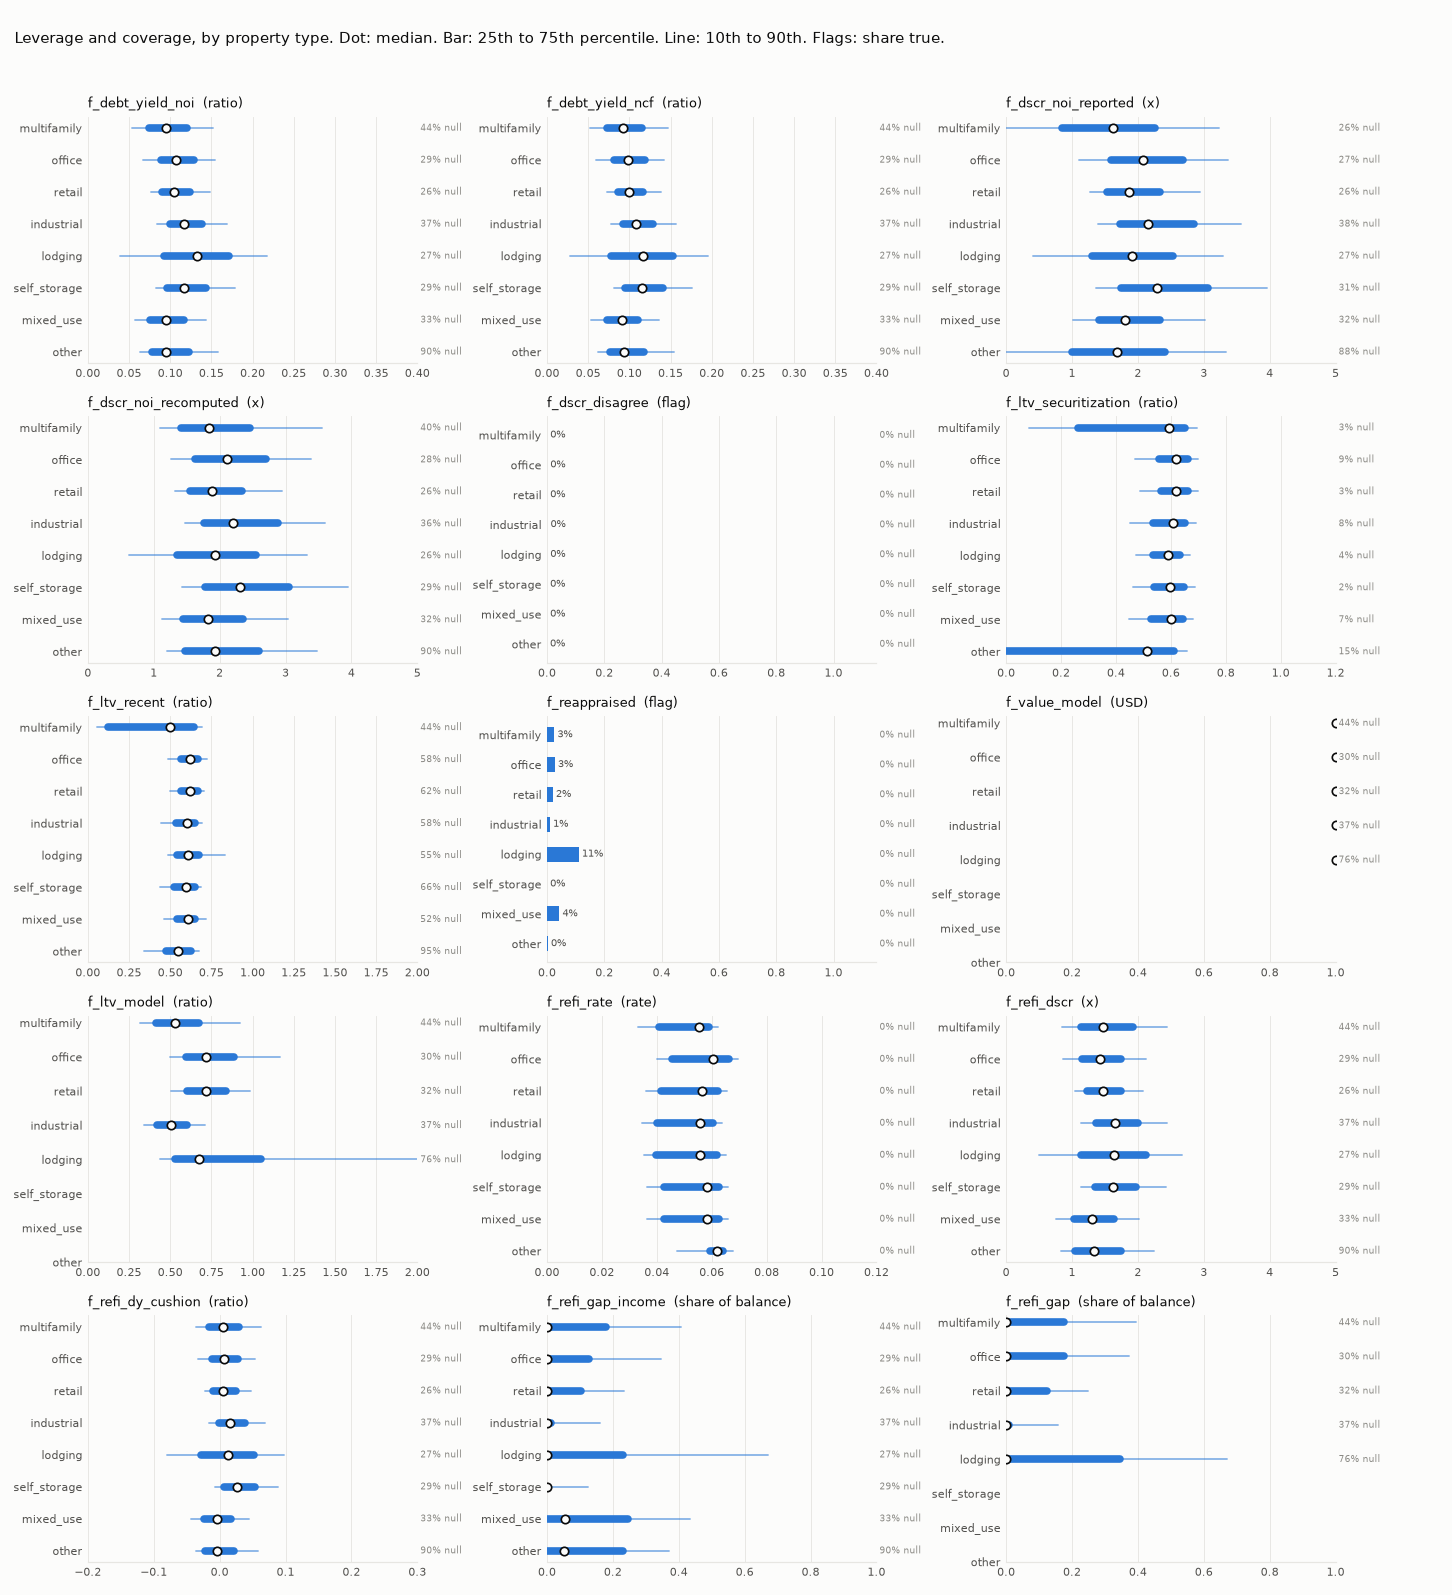
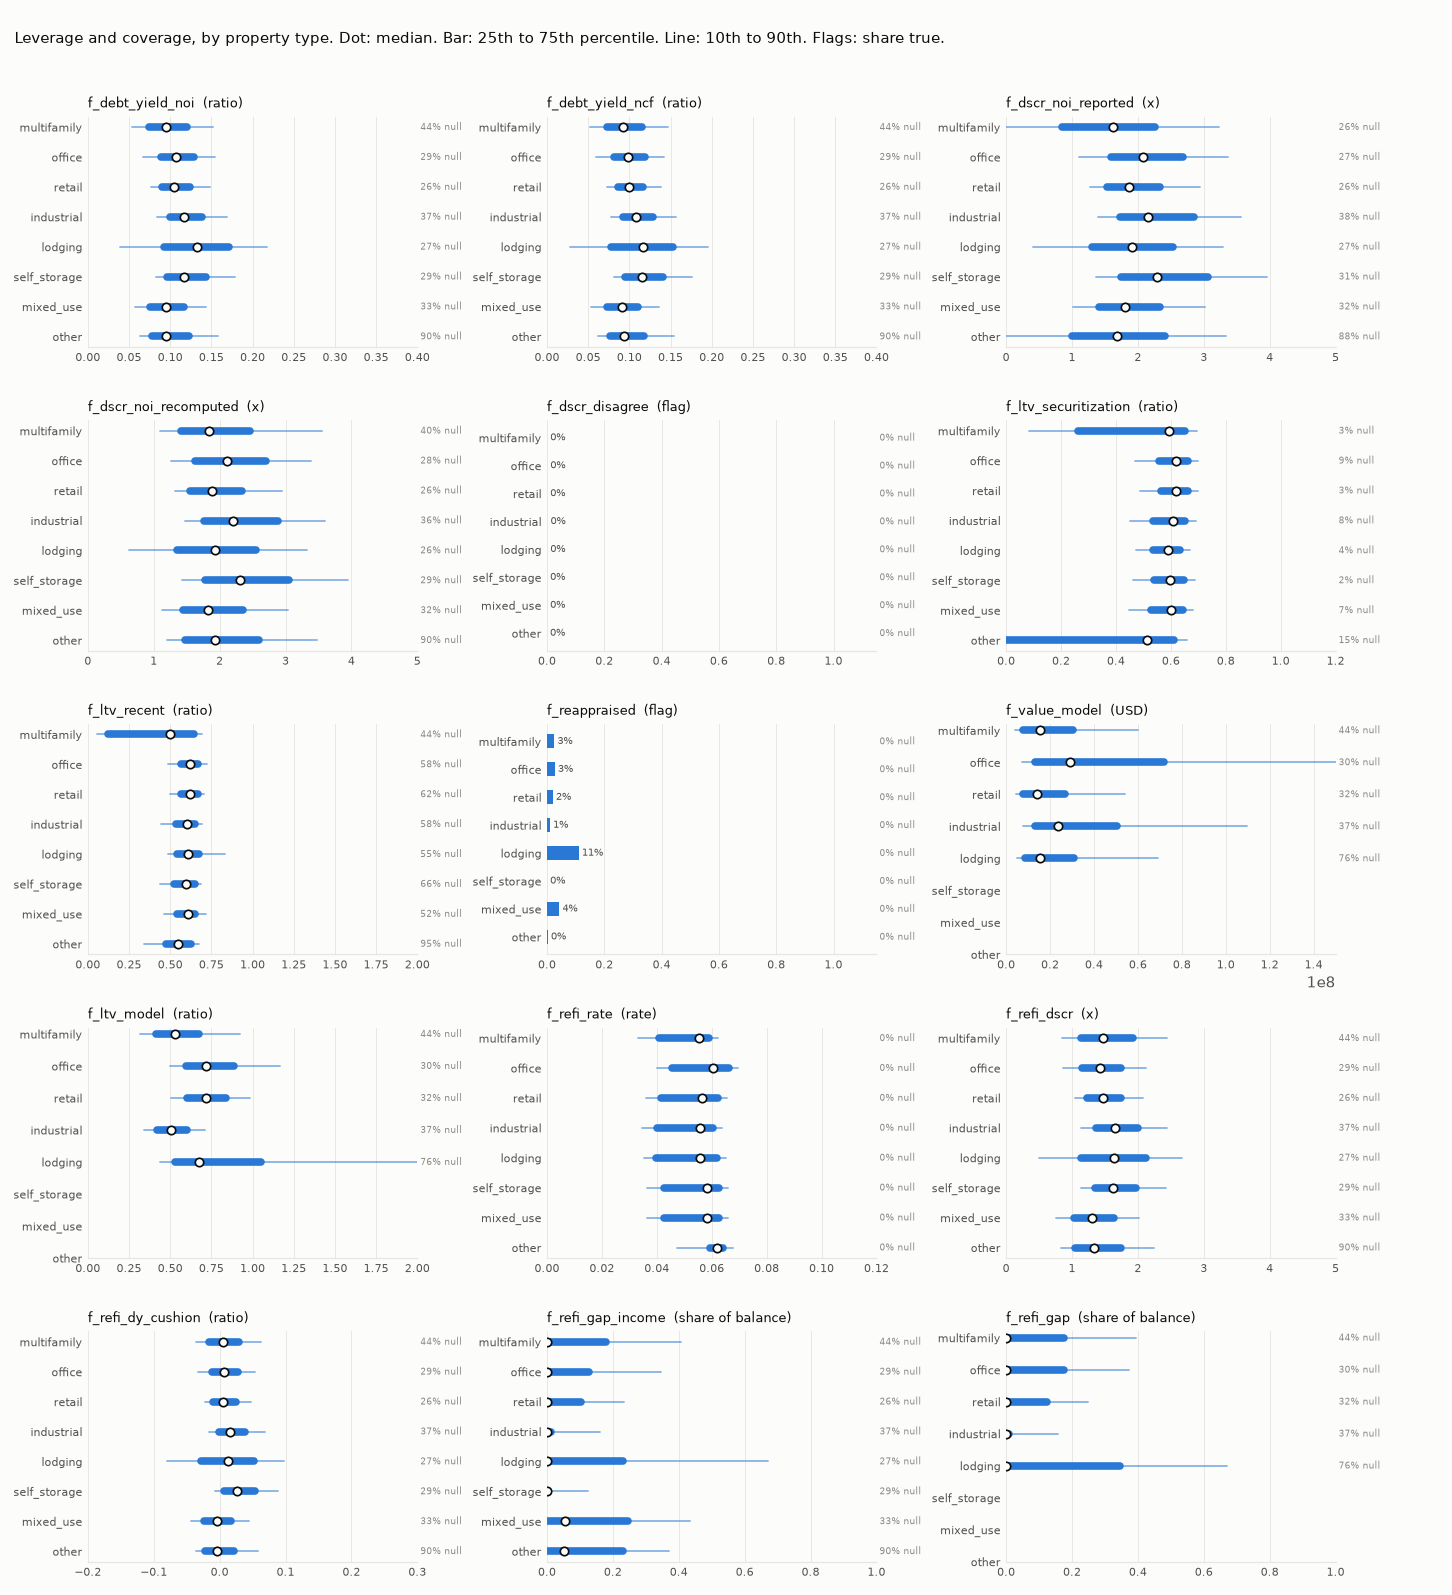
Gate 2 passes: sign-off with published limitations
Features: 64 plus 5 keys, each with a dictionary row, a hand-built unit test and a plot by
property type. Leakage audit passes, including a canary that proves the truncation replay can
catch a leak. Labels: tier 2 2.7% of 676,532 complete-window months; tier 1 gold set 1,631
whole loans, 357 failed; tier 3 220 liquidations. Hand check 20 of 20 after the D045 redraw.

diff --git a/src/mwall/features/catalog.py b/src/mwall/features/catalog.py
@@ -49,7 +49,7 @@ CATALOG: list[Feature] = [
             "or before T", "flag", ("mostRecentValuationDate", "valuationSecuritizationDate"), kind="bool"),
     Feature("f_value_model", LEV, "Annualized NOI / benchmark cap rate for the property type at T", "USD",
             ("fin_noi_annual", "cap_rate_benchmark"), lag="cap rate survey from its publication date",
-            tags=("needs_cap_rates",), clip=None),
+            tags=("needs_cap_rates",), clip=(0, 150_000_000)),
     Feature("f_ltv_model", LEV, "Whole-loan balance / f_value_model (tests H4)", "ratio",
             ("wl_balance_est", "fin_noi_annual", "cap_rate_benchmark"), lag="cap rate survey from its "
             "publication date", tags=("needs_cap_rates",), clip=(0, 2)),

diff --git a/docs/qa/gate2_signoff.md b/docs/qa/gate2_signoff.md
@@ -1,0 +1,40 @@
+# Gate 2 sign-off: features and labels
+
+Signed off 2026-11-13. Every checklist item below is decided by a committed artifact. The numbers come from the full panel built on the Gate 1 data (`python -m mwall panel`, `python -m mwall features --audit`).
+
+## Checklist (SOP section 15)
+
+| item | result | evidence |
+| --- | --- | --- |
+| Every feature has a dictionary row, a unit test and a distribution plot by property type | PASS | 64 features plus 5 categorical keys in seven families, all generated from `src/mwall/features/catalog.py` into `docs/features.md`. `tests/test_features.py` checks every loan feature against a hand-worked example (`test_golden_row_every_loan_feature`), the market, refinance and cap-rate joins on hand-built tables, and fails if any catalog entry has no test (`test_every_catalog_feature_has_a_unit_test`). One figure per family in `docs/qa/features/`, with coverage by type in `docs/qa/gate2_features.md`. The categorical keys (type, state, metro, status) get coverage tables, not plots. |
+| A leakage audit confirms no feature uses data published after its snapshot date | PASS | `docs/qa/gate2_leakage.md`. No outcome field is an input. Every market value joined (Treasury, rents, employment, permits, lender spreads, cap rates) was published on or before the filing date, with 0 exceptions. A truncation replay recomputes the loan features with later filings removed, at four cut dates over 600 loans (64,144 row comparisons), and finds no change. A deliberately leaky canary changes in 39,170 of those comparisons, so the replay has the power to catch a leak. |
+| Label counts by tier, property type and vintage are published, including the number of tier 1 events | PASS | `docs/qa/gate2_labels.md` and `docs/qa/gate2_gold_set.md`. |
+| A hand check of 20 loans confirms labels match what the filings show | PASS | `docs/qa/gate2_hand_check.md`: 20 of 20, after two positives were redrawn under D045 (both were NCB co-op loans flagged by a modification indicator that carried no modification). |
+
+## What the labels say
+
+- **Tier 2 (12-month distress):** 676,532 labeled loan-months with the whole window inside the data, 18,067 with an event (2.7%). Lodging runs highest at 7.7%, self-storage lowest at 0.4%. Office is 3.0% and multifamily 1.8%.
+- **Tier 1 (maturity outcome):** 173 of 431 EX-102 whole loans failed to pay within 90 days of maturity (40.1%). Adding the vintage-2016 loans read from 10-D tables gives a gold set of 1,631 labeled whole loans and 357 failures (21.9%), most of them maturing in 2025 and 2026. The two sources overlap on 7 loans and agree on all 8 labeled pairs.
+- **Tier 3 (loss severity):** 220 liquidated positions, 151 with a reported loss, median severity 0.43.
+
+## Changes made during Gate 2 that move numbers
+
+- **D045:** the modification indicator alone no longer counts. One servicer set it on co-op loans with nothing behind it, and it made 44% of the first count of tier 2 positives.
+- **D045:** months whose window runs past the data are flagged. They were 45.8% positive, because only an early event can label them.
+- **D050:** a payoff after the 90-day grace window is a failure, as the definition says. That adds 9 failed EX-102 maturities.
+- **D050:** "Partial Liquidation (Curtailment)" is not a liquidation.
+- **D050:** Citibank's older layout printed loan numbers with a leading zero, which split one loan into two keys.
+
+## Limitations to publish
+
+1. **Market series are today's vintage.** Zillow, QCEW, permit and housing-unit figures are revised after release; a revision after the snapshot date is a small look-ahead. Treasury yields are not revised.
+2. **Lender limits are constants** (LTV, DSCR, debt yield, amortization, property-type spread premiums) from sources published mostly between 2022 and 2026, with the OCC handbook (2013) as the pre-2017 anchor. Only the spread itself is dated (CBRE's quarterly series). CBRE printed no level for 2016Q2 to 2018Q1 or 2018Q3 to 2020Q1, so 2017 and 2018 refinance rates use the wide 2016Q1 spread.
+3. **The cap-rate benchmark is chain-linked:** CBRE survey averages to 2019 (retail to 2022), then CoStar's monthly changes. Survey and transaction cap rates measure different things, so the level is less certain than the changes. There is no benchmark for self-storage or mixed use, and lodging lapses after 2021.
+4. **Office-using employment ends at 2025 Q2.** BLS stopped publishing metro rows by industry in Q3 2025.
+5. **There's no usable current NOI in 36% of loan-months** (44% for multifamily, where co-op loans rarely report it). That's higher than the 29% with NOI missing at Gate 1, because a partial-year figure whose year-to-date or annualized basis can't be told (D021) also counts. The model reports performance with and without current NOI, as the SOP requires.
+6. **Two of the 49 vintage-2016 trusts are unread.** COMM 2016-DC2 and CFCRE 2016-C4 publish statements as positioned page text. The 10-D loans carry fewer fields than the XML ones, so they serve as labels for calibration and testing; they get no full feature rows.
+7. **7,229 loan-months (0.66%) are late snapshots,** filed after the loan's next period. They keep their features but stay out of training.
+
+## Open for Eli before anything is published (Gate 6)
+
+The cap-rate benchmark uses CBRE survey values and CoStar figures as NAR published them, and the lender parameters quote CBRE, Greystone, Freddie Mac, the OCC and others. The SOP says to transcribe minimal values with attribution and check each source's terms. The model uses these numbers internally; whether the site may show them (for example the benchmark line on a chart) needs a terms check per source. PwC and IRR figures were found but not used: PwC only as re-hosted subscriber copies, IRR only through its registration library.

diff --git a/README.md b/README.md
@@ -4,7 +4,7 @@ Which US commercial mortgages won't refinance at today's rates, and what could a
 
 This repo answers that from the loan-level data that registered CMBS trusts file with the SEC every month (Form ABS-EE, exhibit EX-102). It ranks loans by the probability they fail at maturity, sizes the refinance gap the way a lender would, and underwrites an indicative bid for the collateral. Scores are screening aids under stated assumptions, not valuations or investment advice.
 
-**Status (November 2026): Gate 1 of 6 (data) passed on the full universe.** The ingest, parser, cleaning layer and QA are built and tested; the sign-off and the limitations it publishes are in `docs/qa/gate1_signoff.md`. Features and labels (Gate 2) come next. The plan is `docs/SOP.md`; every departure from it is in `docs/decisions.md`.
+**Status (November 2026): Gates 1 (data) and 2 (features and labels) of 6 passed.** Sign-offs and the limitations they publish: `docs/qa/gate1_signoff.md`, `docs/qa/gate2_signoff.md`. The feature dictionary is `docs/features.md` and the label definitions are `docs/labels.md`. Models (Gate 3) come next. The plan is `docs/SOP.md`; every departure from it is in `docs/decisions.md`.
 
 ## What's in the data so far
 
@@ -38,6 +38,9 @@ uv run python -m mwall tend        # 10-D statements for the balance check
 uv run python -m mwall parse && uv run python -m mwall clean && uv run python -m mwall wholeloans
 uv run python -m mwall geo         # Census geocoder + county and metro crosswalks, cached
 uv run python -m mwall qa
+uv run python -m mwall loandetail --fetch --parse --agent 0001888524 --agent 0001628297   # vintage-2016 10-D loan tables
+uv run python -m mwall panel       # loan-month panel, tier 1-3 labels, combined tier 1 gold set
+uv run python -m mwall features --fetch --audit   # market series, feature table, dictionary, plots, leakage audit
 ```
 
 `make data` runs the same sequence where `make` is available.
